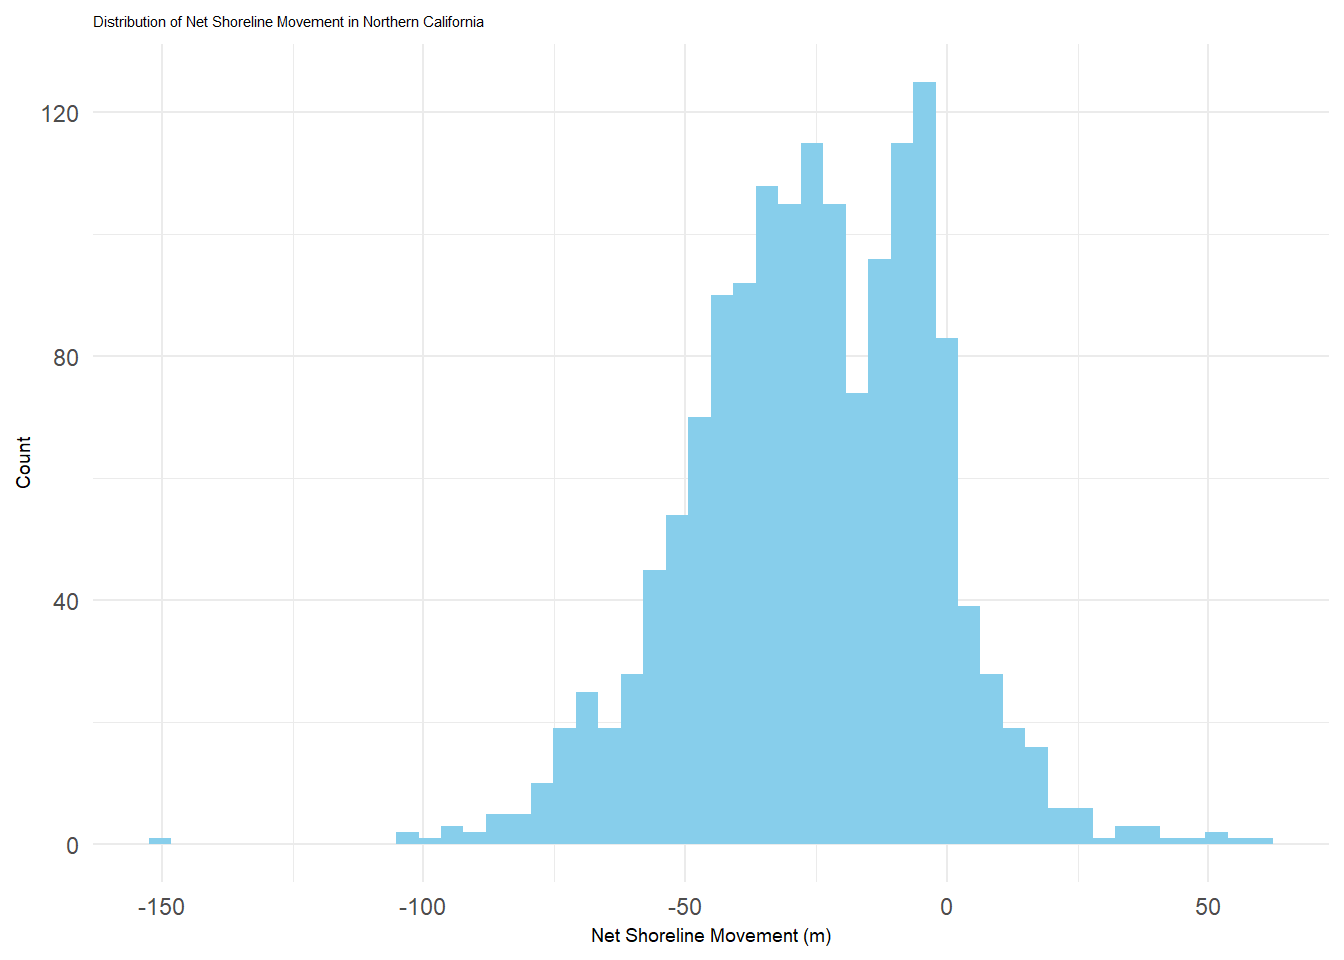
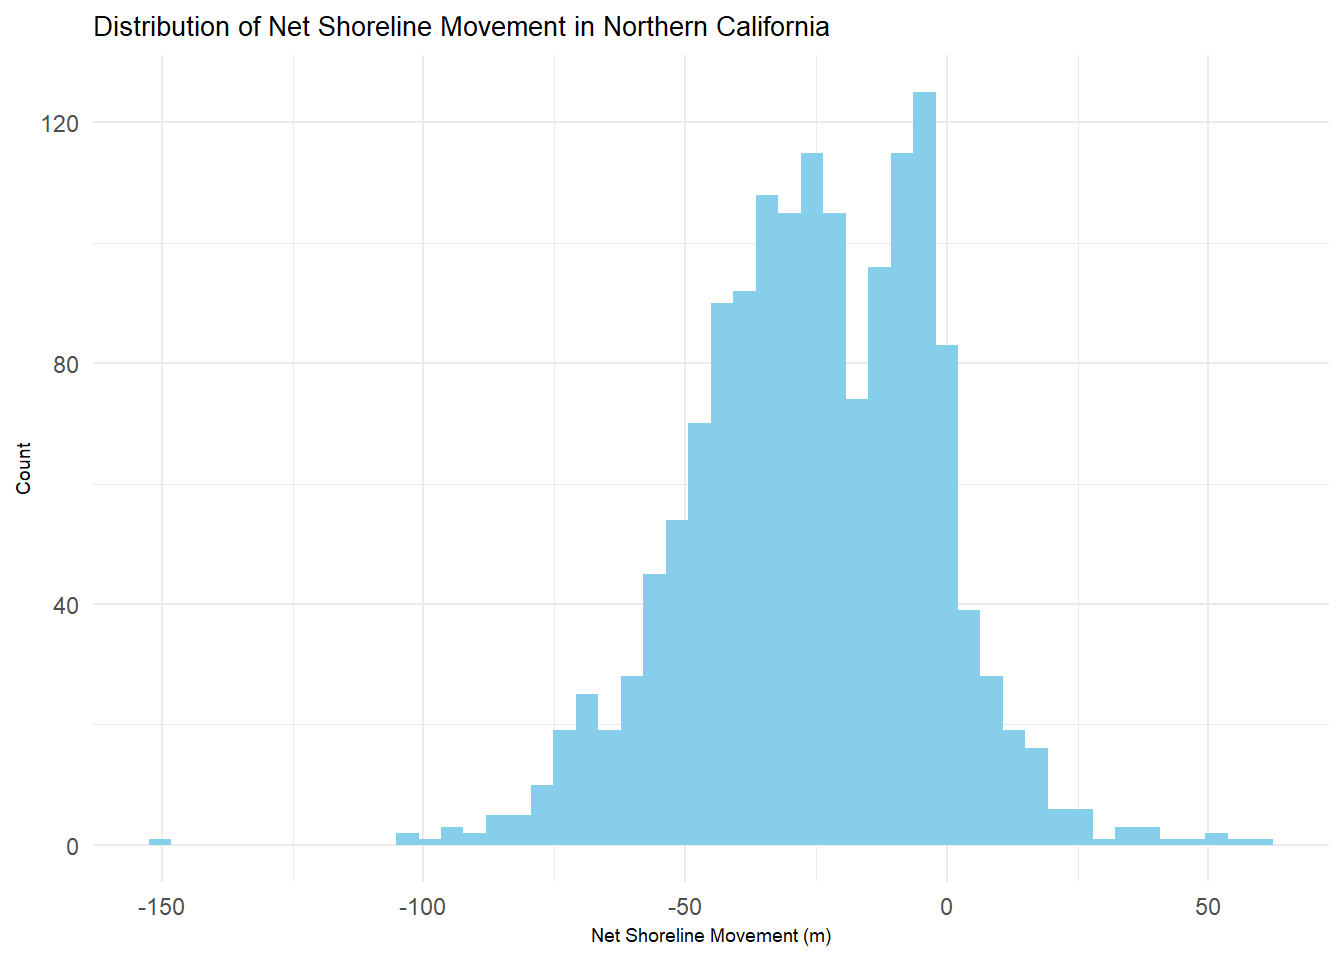
final changes

diff --git a/docs/posts/2022-12-08_EDS222_final/index.html b/docs/posts/2022-12-08_EDS222_final/index.html
@@ -8,7 +8,7 @@
 
 <meta name="author" content="Kiran Favre">
 <meta name="dcterms.date" content="2022-12-09">
-<meta name="description" content="Where are the California coastlines eroding the most? I will be running a muliple linear regression analysis using USGS Coastal Change data.">
+<meta name="description" content="Using muliple linear regression analysis and USGS Coastal Change data to analyze where coastlines in California are eroding the most.">
 
 <title>kiranfavre.github.io - Analysis of California Coastal Erosion</title>
 <style>
@@ -160,7 +160,7 @@ code span.wa { color: #60a0b0; font-weight: bold; font-style: italic; } /* Warni
       <h1 class="title">Analysis of California Coastal Erosion</h1>
                   <div>
         <div class="description">
-          Where are the California coastlines eroding the most? I will be running a muliple linear regression analysis using USGS Coastal Change data.
+          Using muliple linear regression analysis and USGS Coastal Change data to analyze where coastlines in California are eroding the most.
         </div>
       </div>
                           <div class="quarto-categories">
@@ -209,13 +209,11 @@ code span.wa { color: #60a0b0; font-weight: bold; font-style: italic; } /* Warni
    
   <ul>
   <li><a href="#motivation" id="toc-motivation" class="nav-link active" data-scroll-target="#motivation"><strong>MOTIVATION</strong></a></li>
-  <li><a href="#data" id="toc-data" class="nav-link" data-scroll-target="#data"><strong>DATA</strong></a>
-  <ul class="collapse">
-  <li><a href="#analysis" id="toc-analysis" class="nav-link" data-scroll-target="#analysis">ANALYSIS</a></li>
-  </ul></li>
+  <li><a href="#data" id="toc-data" class="nav-link" data-scroll-target="#data"><strong>DATA</strong></a></li>
+  <li><a href="#analysis" id="toc-analysis" class="nav-link" data-scroll-target="#analysis"><strong>ANALYSIS</strong></a></li>
   <li><a href="#section" id="toc-section" class="nav-link" data-scroll-target="#section"></a></li>
-  <li><a href="#section-1" id="toc-section-1" class="nav-link" data-scroll-target="#section-1"></a></li>
-  <li><a href="#discussion" id="toc-discussion" class="nav-link" data-scroll-target="#discussion">DISCUSSION</a></li>
+  <li><a href="#results" id="toc-results" class="nav-link" data-scroll-target="#results"><strong>RESULTS</strong></a></li>
+  <li><a href="#discussion" id="toc-discussion" class="nav-link" data-scroll-target="#discussion"><strong>DISCUSSION</strong></a></li>
   <li><a href="#future-research" id="toc-future-research" class="nav-link" data-scroll-target="#future-research"><strong>FUTURE RESEARCH</strong></a>
   <ul class="collapse">
   <li><a href="#references" id="toc-references" class="nav-link" data-scroll-target="#references">REFERENCES</a></li>
@@ -245,7 +243,7 @@ code span.wa { color: #60a0b0; font-weight: bold; font-style: italic; } /* Warni
 </div>
 <div class="cell">
 <details>
-<summary>Hide</summary>
+<summary>Show code</summary>
 <div class="sourceCode cell-code" id="cb1"><pre class="sourceCode r code-with-copy"><code class="sourceCode r"><span id="cb1-1"><a href="#cb1-1" aria-hidden="true" tabindex="-1"></a><span class="co">#read in 2015 data</span></span>
 <span id="cb1-2"><a href="#cb1-2" aria-hidden="true" tabindex="-1"></a>CA_2015_shoreline <span class="ot">&lt;-</span> <span class="fu">st_read</span>(<span class="fu">file.path</span>(rootdir,</span>
 <span id="cb1-3"><a href="#cb1-3" aria-hidden="true" tabindex="-1"></a>                       <span class="st">"data"</span>,</span>
@@ -256,7 +254,7 @@ code span.wa { color: #60a0b0; font-weight: bold; font-style: italic; } /* Warni
 </div>
 <div class="cell">
 <details>
-<summary>Hide</summary>
+<summary>Show code</summary>
 <div class="sourceCode cell-code" id="cb2"><pre class="sourceCode r code-with-copy"><code class="sourceCode r"><span id="cb2-1"><a href="#cb2-1" aria-hidden="true" tabindex="-1"></a><span class="co">#has only norcal observations</span></span>
 <span id="cb2-2"><a href="#cb2-2" aria-hidden="true" tabindex="-1"></a>norcal_NSM <span class="ot">&lt;-</span> CA_2015_shoreline <span class="sc">|&gt;</span></span>
 <span id="cb2-3"><a href="#cb2-3" aria-hidden="true" tabindex="-1"></a>  <span class="fu">filter</span>(Region <span class="sc">==</span> <span class="st">"n"</span>) <span class="sc">|&gt;</span> </span>
@@ -280,7 +278,7 @@ code span.wa { color: #60a0b0; font-weight: bold; font-style: italic; } /* Warni
 </div>
 <div class="cell">
 <details>
-<summary>Hide</summary>
+<summary>Show code</summary>
 <div class="sourceCode cell-code" id="cb3"><pre class="sourceCode r code-with-copy"><code class="sourceCode r"><span id="cb3-1"><a href="#cb3-1" aria-hidden="true" tabindex="-1"></a><span class="co">#Norcal</span></span>
 <span id="cb3-2"><a href="#cb3-2" aria-hidden="true" tabindex="-1"></a>norcal_NSM_hist_n <span class="ot">&lt;-</span> <span class="fu">ggplot</span>(norcal_NSM, <span class="fu">aes</span>(<span class="at">x =</span> NSM)) <span class="sc">+</span></span>
 <span id="cb3-3"><a href="#cb3-3" aria-hidden="true" tabindex="-1"></a>  <span class="fu">geom_histogram</span>(<span class="at">bins =</span> <span class="dv">50</span>,</span>
@@ -290,7 +288,7 @@ code span.wa { color: #60a0b0; font-weight: bold; font-style: italic; } /* Warni
 <span id="cb3-7"><a href="#cb3-7" aria-hidden="true" tabindex="-1"></a>       <span class="at">title =</span> <span class="st">"Distribution of Net Shoreline Movement in Northern California"</span>,</span>
 <span id="cb3-8"><a href="#cb3-8" aria-hidden="true" tabindex="-1"></a>       ) <span class="sc">+</span></span>
 <span id="cb3-9"><a href="#cb3-9" aria-hidden="true" tabindex="-1"></a>  <span class="fu">theme_minimal</span>() <span class="sc">+</span></span>
-<span id="cb3-10"><a href="#cb3-10" aria-hidden="true" tabindex="-1"></a>  <span class="fu">theme</span>(<span class="at">plot.title =</span> <span class="fu">element_text</span>(<span class="at">size=</span><span class="fl">5.5</span>), </span>
+<span id="cb3-10"><a href="#cb3-10" aria-hidden="true" tabindex="-1"></a>  <span class="fu">theme</span>(<span class="at">plot.title =</span> <span class="fu">element_text</span>(<span class="at">size=</span><span class="dv">10</span>), </span>
 <span id="cb3-11"><a href="#cb3-11" aria-hidden="true" tabindex="-1"></a>        <span class="at">axis.title =</span> <span class="fu">element_text</span>(<span class="at">size =</span> <span class="dv">7</span>))  </span>
 <span id="cb3-12"><a href="#cb3-12" aria-hidden="true" tabindex="-1"></a></span>
 <span id="cb3-13"><a href="#cb3-13" aria-hidden="true" tabindex="-1"></a>norcal_NSM_hist_n</span></code><button title="Copy to Clipboard" class="code-copy-button"><i class="bi"></i></button></pre></div>
@@ -301,7 +299,7 @@ code span.wa { color: #60a0b0; font-weight: bold; font-style: italic; } /* Warni
 </div>
 <div class="cell">
 <details>
-<summary>Hide</summary>
+<summary>Show code</summary>
 <div class="sourceCode cell-code" id="cb4"><pre class="sourceCode r code-with-copy"><code class="sourceCode r"><span id="cb4-1"><a href="#cb4-1" aria-hidden="true" tabindex="-1"></a><span class="co">#Cencal</span></span>
 <span id="cb4-2"><a href="#cb4-2" aria-hidden="true" tabindex="-1"></a>cencal_NSM_hist <span class="ot">&lt;-</span> <span class="fu">ggplot</span>(cencal_NSM, <span class="fu">aes</span>(<span class="at">x =</span> NSM)) <span class="sc">+</span></span>
 <span id="cb4-3"><a href="#cb4-3" aria-hidden="true" tabindex="-1"></a>  <span class="fu">geom_histogram</span>(<span class="at">bins =</span> <span class="dv">50</span>,</span>
@@ -310,7 +308,7 @@ code span.wa { color: #60a0b0; font-weight: bold; font-style: italic; } /* Warni
 <span id="cb4-6"><a href="#cb4-6" aria-hidden="true" tabindex="-1"></a>       <span class="at">y =</span> <span class="st">"Count"</span>,</span>
 <span id="cb4-7"><a href="#cb4-7" aria-hidden="true" tabindex="-1"></a>       <span class="at">title =</span> <span class="st">"Distribution of Net Shoreline Movement in Central California"</span>) <span class="sc">+</span></span>
 <span id="cb4-8"><a href="#cb4-8" aria-hidden="true" tabindex="-1"></a>  <span class="fu">theme_minimal</span>() <span class="sc">+</span></span>
-<span id="cb4-9"><a href="#cb4-9" aria-hidden="true" tabindex="-1"></a>  <span class="fu">theme</span>(<span class="at">plot.title =</span> <span class="fu">element_text</span>(<span class="at">size=</span><span class="fl">5.5</span>),</span>
+<span id="cb4-9"><a href="#cb4-9" aria-hidden="true" tabindex="-1"></a>  <span class="fu">theme</span>(<span class="at">plot.title =</span> <span class="fu">element_text</span>(<span class="at">size=</span><span class="dv">10</span>),</span>
 <span id="cb4-10"><a href="#cb4-10" aria-hidden="true" tabindex="-1"></a>        <span class="at">axis.title =</span> <span class="fu">element_text</span>(<span class="at">size =</span> <span class="dv">7</span>)) </span>
 <span id="cb4-11"><a href="#cb4-11" aria-hidden="true" tabindex="-1"></a></span>
 <span id="cb4-12"><a href="#cb4-12" aria-hidden="true" tabindex="-1"></a>cencal_NSM_hist</span></code><button title="Copy to Clipboard" class="code-copy-button"><i class="bi"></i></button></pre></div>
@@ -321,7 +319,7 @@ code span.wa { color: #60a0b0; font-weight: bold; font-style: italic; } /* Warni
 </div>
 <div class="cell">
 <details>
-<summary>Hide</summary>
+<summary>Show code</summary>
 <div class="sourceCode cell-code" id="cb5"><pre class="sourceCode r code-with-copy"><code class="sourceCode r"><span id="cb5-1"><a href="#cb5-1" aria-hidden="true" tabindex="-1"></a><span class="co">#Socalsocal_NSM_hist</span></span>
 <span id="cb5-2"><a href="#cb5-2" aria-hidden="true" tabindex="-1"></a>socal_NSM_hist <span class="ot">&lt;-</span> <span class="fu">ggplot</span>(socal_NSM, <span class="fu">aes</span>(<span class="at">x =</span> NSM)) <span class="sc">+</span></span>
 <span id="cb5-3"><a href="#cb5-3" aria-hidden="true" tabindex="-1"></a>  <span class="fu">geom_histogram</span>(<span class="at">bins =</span> <span class="dv">50</span>,</span>
@@ -330,12 +328,18 @@ code span.wa { color: #60a0b0; font-weight: bold; font-style: italic; } /* Warni
 <span id="cb5-6"><a href="#cb5-6" aria-hidden="true" tabindex="-1"></a>       <span class="at">y =</span> <span class="st">"Count"</span>,</span>
 <span id="cb5-7"><a href="#cb5-7" aria-hidden="true" tabindex="-1"></a>       <span class="at">title =</span> <span class="st">"Distribution of Net Shoreline Movement in Southern California"</span>) <span class="sc">+</span></span>
 <span id="cb5-8"><a href="#cb5-8" aria-hidden="true" tabindex="-1"></a>  <span class="fu">theme_minimal</span>() <span class="sc">+</span></span>
-<span id="cb5-9"><a href="#cb5-9" aria-hidden="true" tabindex="-1"></a>  <span class="fu">theme</span>(<span class="at">plot.title =</span> <span class="fu">element_text</span>(<span class="at">size=</span><span class="fl">5.5</span>), </span>
-<span id="cb5-10"><a href="#cb5-10" aria-hidden="true" tabindex="-1"></a>        <span class="at">axis.title =</span> <span class="fu">element_text</span>(<span class="at">size =</span> <span class="dv">7</span>))  </span></code><button title="Copy to Clipboard" class="code-copy-button"><i class="bi"></i></button></pre></div>
+<span id="cb5-9"><a href="#cb5-9" aria-hidden="true" tabindex="-1"></a>  <span class="fu">theme</span>(<span class="at">plot.title =</span> <span class="fu">element_text</span>(<span class="at">size=</span><span class="dv">10</span>), </span>
+<span id="cb5-10"><a href="#cb5-10" aria-hidden="true" tabindex="-1"></a>        <span class="at">axis.title =</span> <span class="fu">element_text</span>(<span class="at">size =</span> <span class="dv">7</span>))  </span>
+<span id="cb5-11"><a href="#cb5-11" aria-hidden="true" tabindex="-1"></a></span>
+<span id="cb5-12"><a href="#cb5-12" aria-hidden="true" tabindex="-1"></a>socal_NSM_hist</span></code><button title="Copy to Clipboard" class="code-copy-button"><i class="bi"></i></button></pre></div>
 </details>
+<div class="cell-output-display">
+<p><img src="index_files/figure-html/unnamed-chunk-6-1.png" class="img-fluid" width="672"></p>
 </div>
-<section id="analysis" class="level3">
-<h3 class="anchored" data-anchor-id="analysis">ANALYSIS</h3>
+</div>
+</section>
+<section id="analysis" class="level2">
+<h2 class="anchored" data-anchor-id="analysis"><strong>ANALYSIS</strong></h2>
 <p>To understand if there is a relationship between location along the coast and net shoreline movement, I chose to analyze net shoreline movement by the three study regions: Northern, Central, and Southern California. I will begin with hypothesis testing to determine whether the mean net shoreline movement is the same in each region. The null hypothesis is that each region has the same average net shoreline movement. The alternative hypothesis is that each region does not have the same average net shoreline movement.</p>
 <p><span class="math display">\[
 H_0:\mu_{Norcal} - \mu_{Cencal} - \mu_{Socal} = 0,
@@ -344,7 +348,7 @@ H_1: \mu_{Norcal} - \mu_{Cencal} - \mu_{Socal} \neq 0
 <p>I calculated the average of each region, and found that the average net shoreline movement is not the same across regions. The average net shoreline movement was least in Central California and most in Southern California. A positive value for net shoreline movement indicates an extending coastline, where a negative value indicates erosion, so Central California is estimated to be experiencing the most erosion while Southern California is estimated to be experiencing the least.</p>
 <div class="cell">
 <details>
-<summary>Hide</summary>
+<summary>Show code</summary>
 <div class="sourceCode cell-code" id="cb6"><pre class="sourceCode r code-with-copy"><code class="sourceCode r"><span id="cb6-1"><a href="#cb6-1" aria-hidden="true" tabindex="-1"></a>norcal_mean_NSM <span class="ot">&lt;-</span> <span class="fu">mean</span>(norcal_NSM<span class="sc">$</span>NSM)</span>
 <span id="cb6-2"><a href="#cb6-2" aria-hidden="true" tabindex="-1"></a></span>
 <span id="cb6-3"><a href="#cb6-3" aria-hidden="true" tabindex="-1"></a>cencal_mean_NSM <span class="ot">&lt;-</span> <span class="fu">mean</span>(cencal_NSM<span class="sc">$</span>NSM)</span>
@@ -370,14 +374,15 @@ H_1: \mu_{Norcal} - \mu_{Cencal} - \mu_{Socal} \neq 0
 <p>Next, I ran a multiple linear regression of the impact of location on net shoreline movement. Using the equation:</p>
 <p><span class="math display">\[NSM =\beta_{0}+\beta_{1} \cdot Longitude +\beta_{2} \cdot \text Latitude+\varepsilon_i\]</span> I broke the data into the regions, and used this model for each region. Using RStudio, I was able to calculate the values for the coefficients, listed below.</p>
 </section>
-</section>
 <section id="section" class="level2">
 <h2 class="anchored" data-anchor-id="section"></h2>
-<p><strong>RESULTS</strong></p>
+</section>
+<section id="results" class="level2">
+<h2 class="anchored" data-anchor-id="results"><strong>RESULTS</strong></h2>
 <p>Northern California</p>
 <div class="cell">
 <details>
-<summary>Hide</summary>
+<summary>Show code</summary>
 <div class="sourceCode cell-code" id="cb8"><pre class="sourceCode r code-with-copy"><code class="sourceCode r"><span id="cb8-1"><a href="#cb8-1" aria-hidden="true" tabindex="-1"></a><span class="co">#make model </span></span>
 <span id="cb8-2"><a href="#cb8-2" aria-hidden="true" tabindex="-1"></a>mod_n <span class="ot">&lt;-</span> <span class="fu">lm</span>(NSM <span class="sc">~</span> Long <span class="sc">+</span> Lat,</span>
 <span id="cb8-3"><a href="#cb8-3" aria-hidden="true" tabindex="-1"></a>            <span class="at">data =</span> norcal_NSM)</span>
@@ -433,7 +438,7 @@ H_1: \mu_{Norcal} - \mu_{Cencal} - \mu_{Socal} \neq 0
 <p>Central California:</p>
 <div class="cell">
 <details>
-<summary>Hide</summary>
+<summary>Show code</summary>
 <div class="sourceCode cell-code" id="cb9"><pre class="sourceCode r code-with-copy"><code class="sourceCode r"><span id="cb9-1"><a href="#cb9-1" aria-hidden="true" tabindex="-1"></a><span class="co">#make model for cencal </span></span>
 <span id="cb9-2"><a href="#cb9-2" aria-hidden="true" tabindex="-1"></a>mod_c <span class="ot">&lt;-</span> <span class="fu">lm</span>(NSM <span class="sc">~</span> Long <span class="sc">+</span> Lat,</span>
 <span id="cb9-3"><a href="#cb9-3" aria-hidden="true" tabindex="-1"></a>            <span class="at">data =</span> cencal_NSM)</span>
@@ -487,7 +492,7 @@ H_1: \mu_{Norcal} - \mu_{Cencal} - \mu_{Socal} \neq 0
 <p>Southern California:</p>
 <div class="cell">
 <details>
-<summary>Hide</summary>
+<summary>Show code</summary>
 <div class="sourceCode cell-code" id="cb10"><pre class="sourceCode r code-with-copy"><code class="sourceCode r"><span id="cb10-1"><a href="#cb10-1" aria-hidden="true" tabindex="-1"></a><span class="co">#make model for southern CA</span></span>
 <span id="cb10-2"><a href="#cb10-2" aria-hidden="true" tabindex="-1"></a>mod_s <span class="ot">&lt;-</span> <span class="fu">glm</span>(NSM <span class="sc">~</span> Long <span class="sc">+</span> Lat,</span>
 <span id="cb10-3"><a href="#cb10-3" aria-hidden="true" tabindex="-1"></a>            <span class="at">data =</span> socal_NSM)</span>
@@ -541,7 +546,7 @@ H_1: \mu_{Norcal} - \mu_{Cencal} - \mu_{Socal} \neq 0
 <p>Northern California Regression Model Summary:</p>
 <div class="cell">
 <details>
-<summary>Hide</summary>
+<summary>Show code</summary>
 <div class="sourceCode cell-code" id="cb11"><pre class="sourceCode r code-with-copy"><code class="sourceCode r"><span id="cb11-1"><a href="#cb11-1" aria-hidden="true" tabindex="-1"></a>mod_n <span class="ot">&lt;-</span> <span class="fu">lm</span>(NSM <span class="sc">~</span> Long <span class="sc">+</span> Lat,</span>
 <span id="cb11-2"><a href="#cb11-2" aria-hidden="true" tabindex="-1"></a>            <span class="at">data =</span> norcal_NSM)</span>
 <span id="cb11-3"><a href="#cb11-3" aria-hidden="true" tabindex="-1"></a><span class="fu">tab_model</span>(mod_n)</span></code><button title="Copy to Clipboard" class="code-copy-button"><i class="bi"></i></button></pre></div>
@@ -593,7 +598,7 @@ H_1: \mu_{Norcal} - \mu_{Cencal} - \mu_{Socal} \neq 0
 <p>Central California Regression Model Summary:</p>
 <div class="cell">
 <details>
-<summary>Hide</summary>
+<summary>Show code</summary>
 <div class="sourceCode cell-code" id="cb12"><pre class="sourceCode r code-with-copy"><code class="sourceCode r"><span id="cb12-1"><a href="#cb12-1" aria-hidden="true" tabindex="-1"></a>mod_c <span class="ot">&lt;-</span> <span class="fu">lm</span>(NSM <span class="sc">~</span> Long <span class="sc">+</span> Lat,</span>
 <span id="cb12-2"><a href="#cb12-2" aria-hidden="true" tabindex="-1"></a>            <span class="at">data =</span> cencal_NSM)</span>
 <span id="cb12-3"><a href="#cb12-3" aria-hidden="true" tabindex="-1"></a><span class="fu">tab_model</span>(mod_c)</span></code><button title="Copy to Clipboard" class="code-copy-button"><i class="bi"></i></button></pre></div>
@@ -645,7 +650,7 @@ H_1: \mu_{Norcal} - \mu_{Cencal} - \mu_{Socal} \neq 0
 <p>Southern California Regression Model Summary:</p>
 <div class="cell">
 <details>
-<summary>Hide</summary>
+<summary>Show code</summary>
 <div class="sourceCode cell-code" id="cb13"><pre class="sourceCode r code-with-copy"><code class="sourceCode r"><span id="cb13-1"><a href="#cb13-1" aria-hidden="true" tabindex="-1"></a>mod_s <span class="ot">&lt;-</span> <span class="fu">lm</span>(NSM <span class="sc">~</span> Long <span class="sc">+</span> Lat,</span>
 <span id="cb13-2"><a href="#cb13-2" aria-hidden="true" tabindex="-1"></a>            <span class="at">data =</span> socal_NSM)</span>
 <span id="cb13-3"><a href="#cb13-3" aria-hidden="true" tabindex="-1"></a><span class="fu">tab_model</span>(mod_s)</span></code><button title="Copy to Clipboard" class="code-copy-button"><i class="bi"></i></button></pre></div>
@@ -695,11 +700,8 @@ H_1: \mu_{Norcal} - \mu_{Cencal} - \mu_{Socal} \neq 0
 </div>
 </div>
 </section>
-<section id="section-1" class="level2">
-<h2 class="anchored" data-anchor-id="section-1"></h2>
-</section>
 <section id="discussion" class="level2">
-<h2 class="anchored" data-anchor-id="discussion">DISCUSSION</h2>
+<h2 class="anchored" data-anchor-id="discussion"><strong>DISCUSSION</strong></h2>
 <p>As the results of the hypothesis test show, the average net shoreline movement in each region of California is not equal. Due to this, I reject the null hypothesis that the average net shoreline movement will be equal in across all regions in California.</p>
 <p>These plots indicate that there is a relationship between location in California and net shoreline movement. For the most part, as longitude decreases (moving eastward), the predicted net shoreline movement decrease (coastal erosion). As latitude increases (moving northward), the predicted net shoreline movement increases (coastal extension). These models estimate that shorelines that are more southeastern are at risk for more coastal erosion.</p>
 <p>The regression summary tables can further help in understanding the estimated relationship between location and net shoreline movement. The model predicts the following: in Northern California, about 6.8% of the variance in net shoreline movement is due to its latitude and longitude. In Central California, about 11.2% of the variance in net shoreline movement is due to its latitude and longitude. In Southern California, about 18.8% of the variance in net shoreline movement is due to its latitude and longitude. The coefficients represent the magnitude of effect of that variable on net shoreline movement. These differ greatly between each region, which could mean that each region faces different levels of environmental stressors causing differing levels of coastal erosion.</p>
@@ -707,10 +709,7 @@ H_1: \mu_{Norcal} - \mu_{Cencal} - \mu_{Socal} \neq 0
 <section id="future-research" class="level2">
 <h2 class="anchored" data-anchor-id="future-research"><strong>FUTURE RESEARCH</strong></h2>
 <p>More monitoring of this coastline will be essential in forming helpful policy and adaptation strategies. With how dynamic the shoreline is in lieu of natural processes, in addition to anthropogenic influences, it is important to improve the understanding of how the coastline is changing.&nbsp;The effects of climate change are being understood as they happen, which is why improving monitoring is crucial in forming an analysis of coastal erosion.</p>
-<p>Along with the data collection itself, the model used here could be improved in the future to account for discrepancies here. Another analysis that could be helpful in answering this question would be a time series decomposition analysis. This data did not have time observations, rather metrics already calculated based on the time interval provided. These models can also be applied to other areas in the United States or globally that are facing similar problems. Future analyses could also include spatial interpolation to estimate coastal erosion for all of California. <a href="https://scripps.ucsd.edu/news/new-high-resolution-study-california-coastal-cliff-erosion-released">This recent study</a> inspired spatial interpolation as a future analysis.</p>
-<p><br>
-</p>
-<p>*Observations for Central and Southern California began in 1998, while observations in Northern California began in 2002.&nbsp;</p>
+<p>Along with the data collection itself, the model used here could be improved in the future to account for discrepancies here. Another analysis that could be helpful in answering this question would be a time series decomposition analysis. This data did not have time observations, rather metrics already calculated based on the time interval provided. These models can also be applied to other areas in the United States or globally that are facing similar problems. Future analyses could also include spatial interpolation to estimate coastal erosion for all of California. <a href="https://scripps.ucsd.edu/news/new-high-resolution-study-california-coastal-cliff-erosion-released">This recent study</a> inspired my suggestion for spatial interpolation as a future analysis.</p>
 <section id="references" class="level3">
 <h3 class="anchored" data-anchor-id="references">REFERENCES</h3>
 <ol type="1">

diff --git a/docs/posts.html b/docs/posts.html
@@ -180,7 +180,7 @@ Kiran Favre
 </div>
 </a>
 </div>
-<div class="g-col-1" data-index="1" data-categories="R,Geospatial,California" data-listing-date-sort="1670572800000" data-listing-file-modified-sort="1670627661783" data-listing-reading-time-sort="15.835">
+<div class="g-col-1" data-index="1" data-categories="R,Geospatial,California" data-listing-date-sort="1670572800000" data-listing-file-modified-sort="1670632236761" data-listing-reading-time-sort="15.745">
 <a href="./posts/2022-12-08_EDS222_final/index.html" class="quarto-grid-link">
 <div class="quarto-grid-item card h-100 card-left">
 <div class="card-body post-contents">
@@ -199,7 +199,7 @@ California
 </div>
 </div>
 <div class="card-text listing-description">
-Where are the California coastlines eroding the most? I will be running a muliple linear regression analysis using USGS Coastal Change data.
+Using muliple linear regression analysis and USGS Coastal Change data to analyze where coastlines in California are eroding the most.
 </div>
 <div class="card-attribution card-text-small justify">
 <div class="listing-author">
